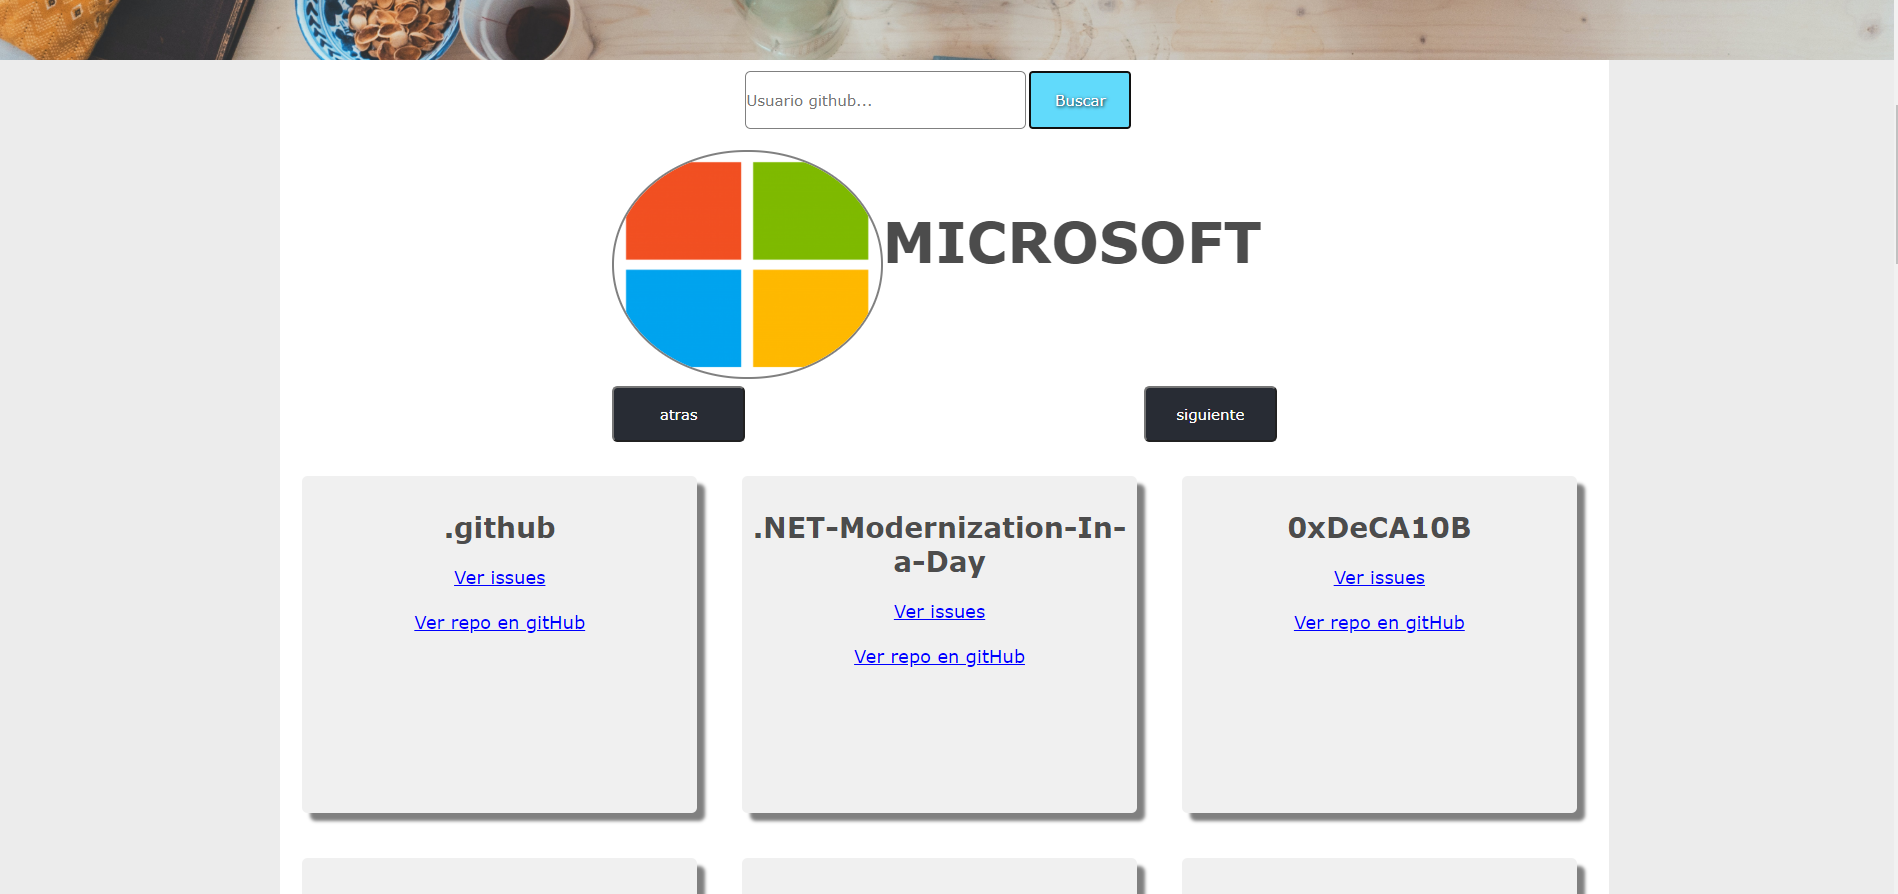
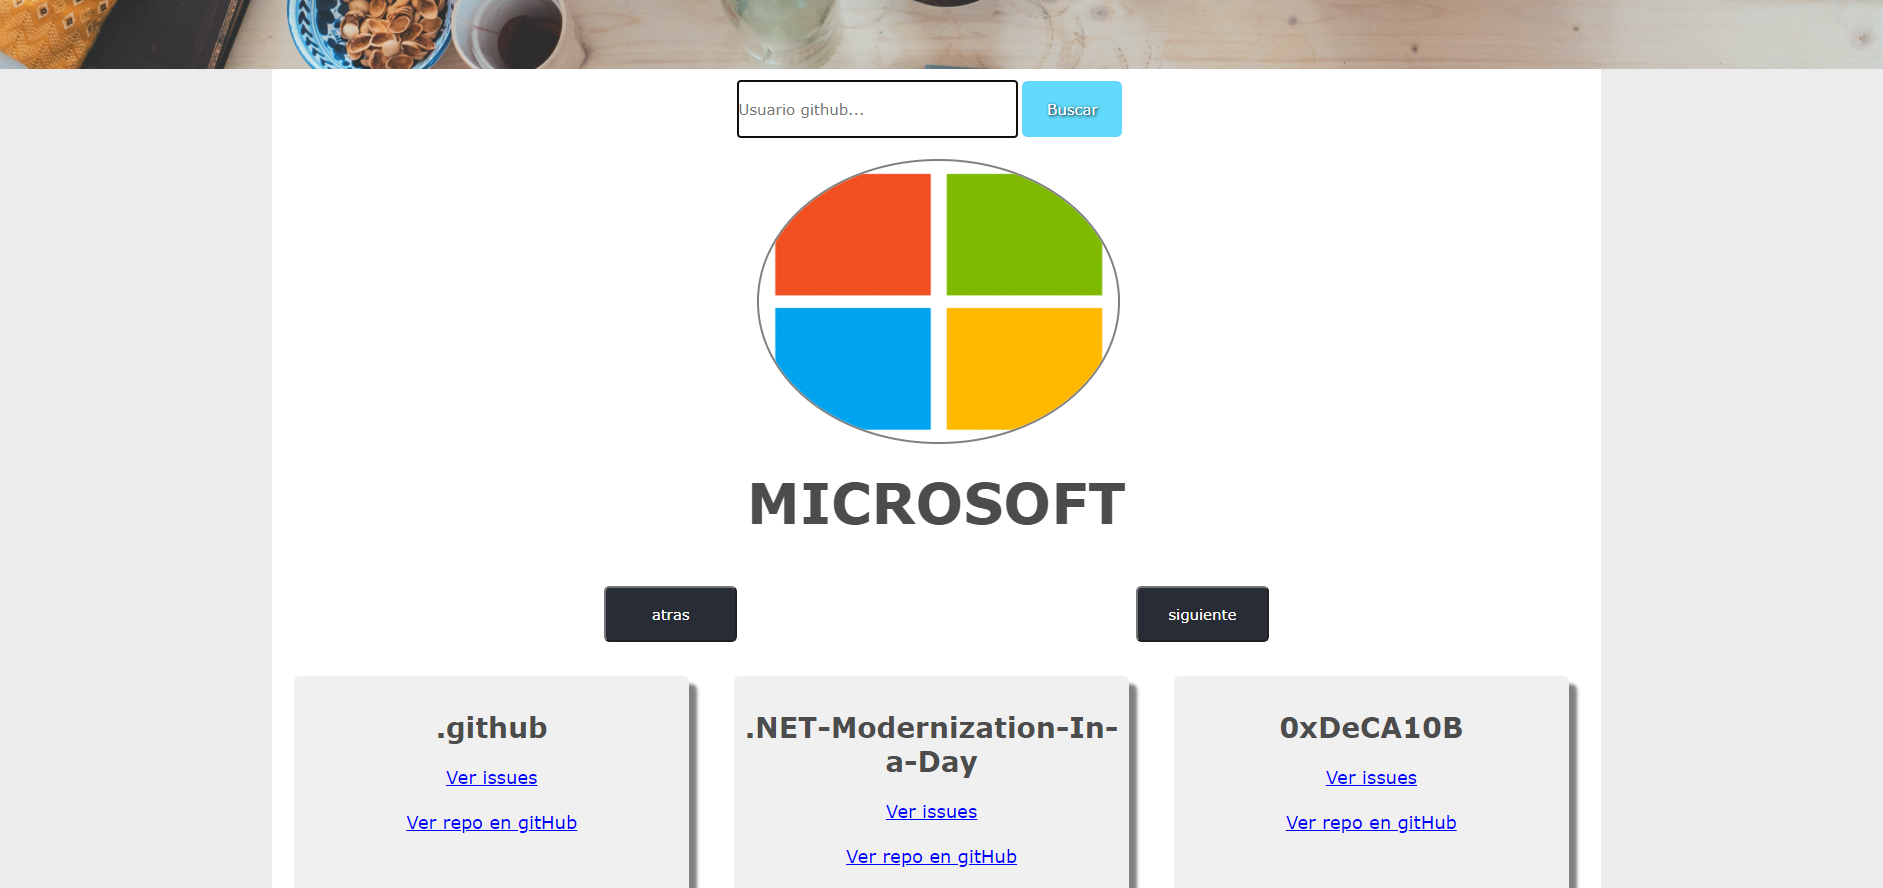
modificado diseño de inicio

diff --git a/src/app/pages/inicio/inicio.component.css b/src/app/pages/inicio/inicio.component.css
@@ -40,17 +40,18 @@
 }
 
 .divDatosUsuario{
-    width: 50%;
-    margin-left: 25%;
+    width: 30%;
+    margin-left: 35%;
     margin-top: 20px;
     /* background: burlywood; */
-    height:200px;
+    height:370px;
     float: left;
 }
 
 .imagenUsuarioGit{
-    width: 40%;
-    height: 200px;
+    width: 90%;
+    margin-left: 5%;
+    height: 250px;
     overflow: hidden;
     border: 2px solid gray;
     border-radius: 50%;
@@ -59,20 +60,22 @@
 
 .imagenUsuarioGit img{
     width: 100%;
-    height: 200px;
+    height: 250px;
 }
 
 .nombreUsuarioGit{
-    width: 50%;
-    height: 200px;
+    width: 100%;   
+    height: 100px;
+    /* background: blue; */
     float: left;
 }
 
 .nombreUsuarioGit h3{
     text-align: center;
-    margin-top: 50px;
+    margin-top: 20px;
     font-size: 50px;
     font-weight: bold;
+    /* float: left; */
 }
 
 .divBotones{
